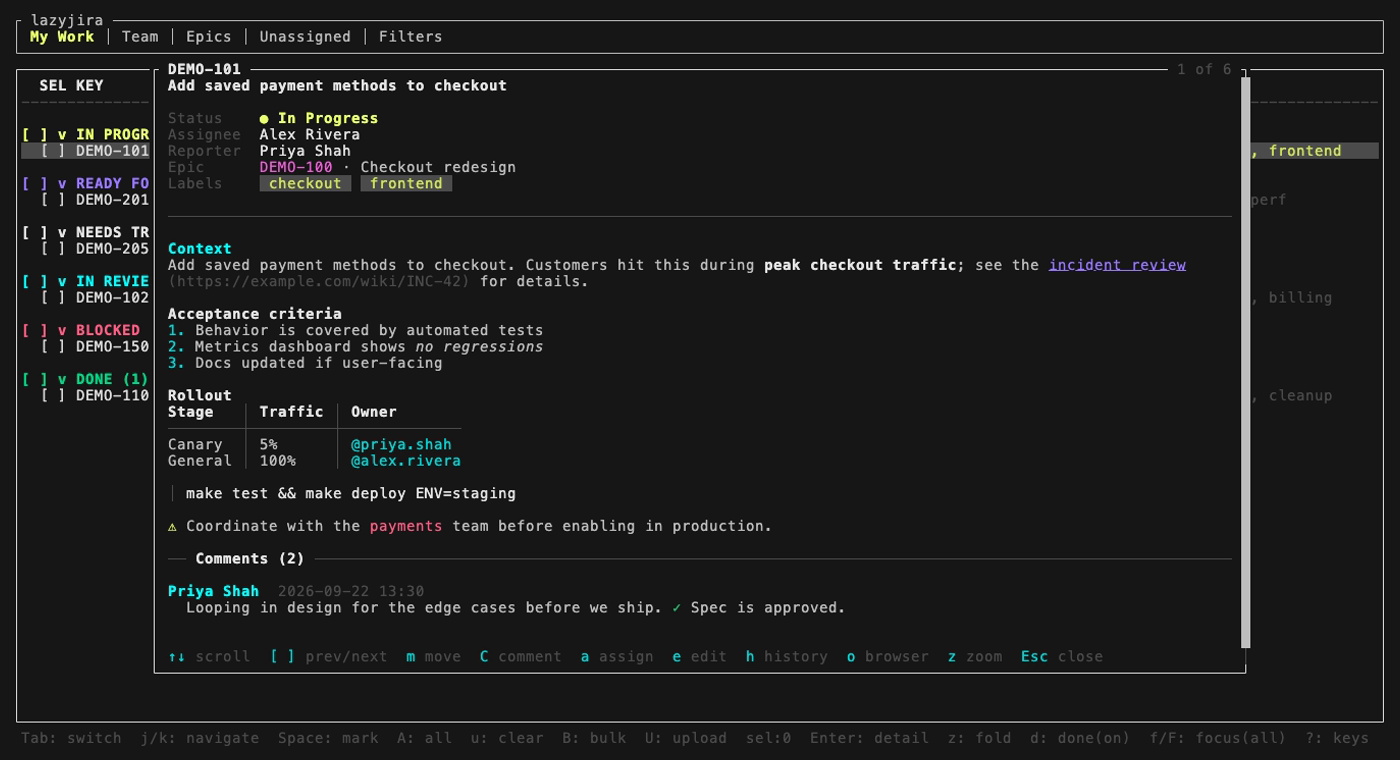
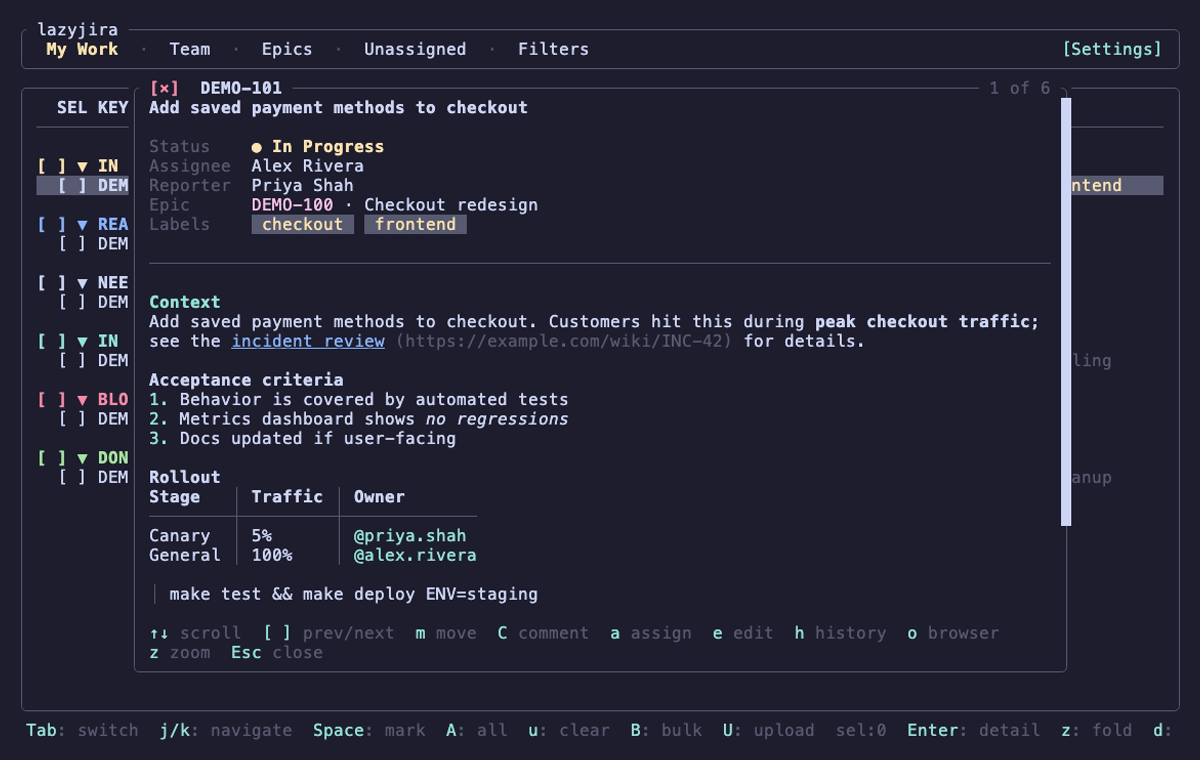
docs: refresh v0.5.0 demo and README (#35)

Changed region(s): [[0.0, 0.0, 1.0, 0.9987]]

diff --git a/README.md b/README.md
@@ -1,22 +1,26 @@
 # lazyjira
 
-A fast, keyboard-driven terminal UI for Jira, built for daily triage and for keeping an eye on your team's work.
+A fast terminal UI for Jira, with keyboard and mouse controls for daily triage and keeping an eye on your team's work.
 
-lazyjira runs on top of the [`jira` CLI](https://github.com/ankitpokhrel/jira-cli). It uses your existing CLI login, opens instantly from a local cache, and refreshes in the background. It was built for one team's workflow on `jira.mongodb.org`, so a few parts still assume that instance (see [Limitations](#limitations)).
+lazyjira runs on top of the [`jira` CLI](https://github.com/ankitpokhrel/jira-cli). It uses your existing CLI login and Jira server, opens instantly from a local cache, and refreshes in the background. See [Limitations](#limitations) for workflow and platform requirements.
 
-![lazyjira moving through My Work, a ticket detail, Team, Epics, Unassigned, and a saved filter](docs/images/demo.gif)
+![lazyjira showing ticket detail with a close control, live preferences, searchable ticket creation, and the five workspace tabs](docs/images/demo.gif)
 
 ## Features
 
 - Five tabs: **My Work**, **Team**, **Epics**, **Unassigned**, **Filters**
+- Mouse controls for tabs, rows, scrolling, forms, pickers, and action menus
 - Tickets grouped by status, with one-key status focus and a Done toggle
 - Epic progress bars, with an optional list of the epics you care about
 - Ticket detail with formatted description, comments, labels, assignee, epic, and activity history
 - Create, comment on, assign, edit, and move tickets without leaving the terminal
+- Cursor editing, multiline paste, and external editors for ticket content
+- Searchable assignee and epic pickers
+- In-app preferences for teammates, pinned epics, Done visibility, and starting tab
 - Multi-select with bulk move and bulk assign
 - Bulk ticket creation from a CSV, with a validated preview before anything is sent
 - Saved JQL filters
-- Local cache for fast startup and instant detail views
+- Local cache for fast startup and instant detail views, with your place preserved across refreshes and tab changes
 
 ## Requirements
 
@@ -52,7 +56,7 @@ To build from source instead:
 cargo install --path . --force
 
 # From a release tag
-cargo install --git https://github.com/cdowellmdb/lazyjira --tag v0.1.1
+cargo install --git https://github.com/cdowellmdb/lazyjira --tag v0.5.0
 ```
 
 ## Quick start
@@ -159,7 +163,7 @@ Create tickets with a summary, labels, and description. Edit these fields with `
 
 ### Detail view
 
-![A ticket detail showing formatted Jira markup: headings, a numbered list, a table, a code block, and comments](docs/images/ticket-detail.png)
+![A ticket detail with a top-left close control and formatted Jira headings, a numbered list, a table, and code](docs/images/ticket-detail.png)
 
 Descriptions and comments render Jira's wiki markup: headings, bold/italic/strikethrough, links, mentions, lists, tables, quotes, code blocks and icons like `(/)`.
 
